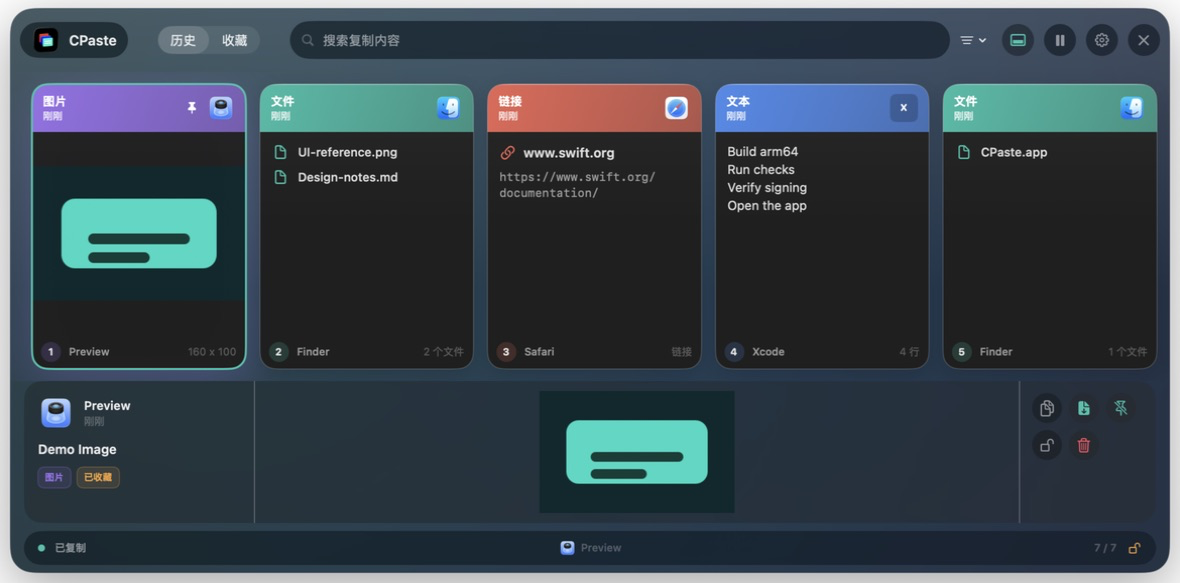
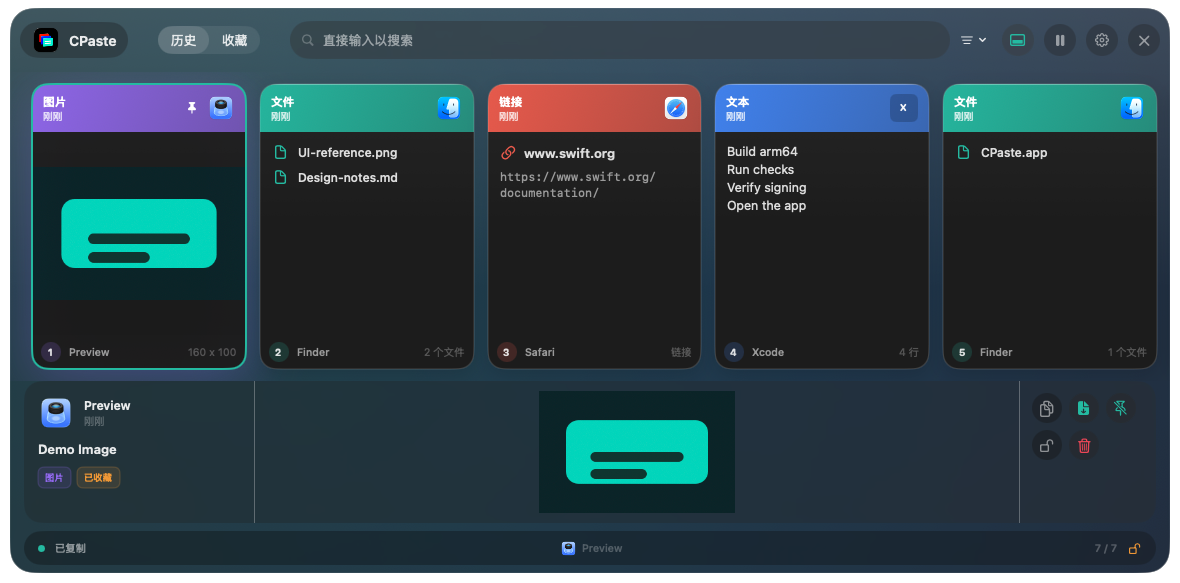
Reset reopened panels to History and remove duplicate window shadow

diff --git a/Sources/CPaste/SnapshotRenderer.swift b/Sources/CPaste/SnapshotRenderer.swift
@@ -7,6 +7,10 @@ import SwiftUI
 enum SnapshotRenderer {
     private static var previewWindow: NSWindow?
 
+    private static var themeStyle: AppThemeStyle {
+        ProcessInfo.processInfo.environment["CPASTE_SNAPSHOT_THEME"] == "standard" ? .standard : .liquidGlass
+    }
+
     nonisolated static func snapshotDirectoryArgument() -> URL? {
         let arguments = ProcessInfo.processInfo.arguments
         guard let index = arguments.firstIndex(of: "--snapshot-dir"),
@@ -58,7 +62,7 @@ enum SnapshotRenderer {
                 inspectorPresented: false
             )
         case "04-empty-timeline":
-            let state = AppState(themeStyle: .liquidGlass)
+            let state = AppState(themeStyle: themeStyle)
             state.statusMessage = CPasteL10n.text("就绪", "Ready")
             showPanelPreview(
                 size: NSSize(width: 680, height: 420),
@@ -130,7 +134,7 @@ enum SnapshotRenderer {
             to: directory
         )
 
-        let emptyState = AppState(themeStyle: .liquidGlass)
+        let emptyState = AppState(themeStyle: themeStyle)
         emptyState.statusMessage = CPasteL10n.text("就绪", "Ready")
         try await renderPanel(
             name: "04-empty-timeline.png",
@@ -241,7 +245,8 @@ enum SnapshotRenderer {
             togglePinned: { item in store.togglePinned(item.id) },
             delete: { item in store.delete(item.id) },
             clearUnpinned: { store.clearUnpinned() },
-            close: {},
+            // Keep the fixture visible while exercising the next-open lifecycle.
+            close: { appState.panelPresentationID = UUID() },
             openAccessibility: {},
             hasAccessibilityPermission: { false },
             toggleCapture: {
@@ -325,10 +330,13 @@ enum SnapshotRenderer {
 
         let scale = window.backingScaleFactor
         let configuration = SCScreenshotConfiguration()
-        configuration.width = Int(size.width * scale)
-        configuration.height = Int(size.height * scale)
+        let includeShadows = ProcessInfo.processInfo.environment["CPASTE_SNAPSHOT_SHADOWS"] == "1"
+        if !includeShadows {
+            configuration.width = Int(size.width * scale)
+            configuration.height = Int(size.height * scale)
+        }
         configuration.showsCursor = false
-        configuration.ignoreShadows = true
+        configuration.ignoreShadows = !includeShadows
         configuration.displayIntent = .local
         configuration.dynamicRange = .sdr
 
@@ -367,11 +375,19 @@ enum SnapshotRenderer {
         window.contentView = hostingView
         window.setFrame(NSRect(origin: .zero, size: size), display: true)
         window.center()
+        if let rawScale = ProcessInfo.processInfo.environment["CPASTE_SNAPSHOT_SCALE"],
+           let requestedScale = Double(rawScale),
+           let screen = NSScreen.screens.first(where: { $0.backingScaleFactor == requestedScale }) {
+            window.setFrameOrigin(NSPoint(
+                x: screen.visibleFrame.midX - size.width / 2,
+                y: screen.visibleFrame.midY - size.height / 2
+            ))
+        }
         return (window, hostingView)
     }
 
     private static func makeReadyState() -> AppState {
-        let state = AppState(themeStyle: .liquidGlass)
+        let state = AppState(themeStyle: themeStyle)
         state.statusMessage = CPasteL10n.text("已复制", "Copied")
         return state
     }

diff --git a/Sources/CPaste/HistoryPanelView.swift b/Sources/CPaste/HistoryPanelView.swift
@@ -92,7 +92,8 @@ struct HistoryPanelView: View {
                     RoundedRectangle(cornerRadius: 24, style: .continuous)
                         .stroke(Color.white.opacity(0.18), lineWidth: 0.8)
                 )
-                .shadow(color: Color.black.opacity(0.36), radius: 28, x: 0, y: 14)
+                // NSPanel supplies the outer shadow. A second SwiftUI shadow
+                // expands its alpha silhouette into a jagged WindowServer outline.
                 .padding(.horizontal, 10)
                 .padding(.top, 8)
                 .padding(.bottom, 10)
@@ -892,10 +893,11 @@ struct HistoryPanelView: View {
     private func prepareForPresentation() {
         presentationState.resetTransientUI()
         searchText = ""
+        scope = .history
         let items = store.filteredItems(
             search: "",
             kind: selectedKind,
-            pinnedOnly: scope == .pinned
+            pinnedOnly: false
         )
         setSelection(items.first?.id)
         isSearchFocused = true

diff --git a/README.md b/README.md
@@ -81,6 +81,8 @@ Open an isolated 8 MB text fixture to check search focus and long-text preview r
 
 Liquid Glass screenshots require macOS 26 or later. Screen Recording permission must be available to the process that runs the snapshot command because native glass is captured from an onscreen WindowServer composition.
 
+For corner and shadow checks, set `CPASTE_SNAPSHOT_SHADOWS=1` to include the native window shadow at its original capture size. `CPASTE_SNAPSHOT_SCALE=1` or `2` places the snapshot window on a connected display with that backing scale (otherwise it uses the default display). Use `CPASTE_SNAPSHOT_THEME=standard` to compare the standard theme. In an interactive preview, closing the panel simulates a new presentation while keeping the fixture window visible, so reopening state can be checked without the global hotkey.
+
 For local UI smoke checks without touching your real history:
 
 ```sh

diff --git a/docs/CPaste-User-Guide.md b/docs/CPaste-User-Guide.md
@@ -196,7 +196,7 @@ Close CPaste by:
 - Clicking the close button in the upper-right corner.
 - Switching to another app.
 
-Each time the panel opens, search is cleared, the timeline returns to the leading edge, and the search field receives focus so you can type immediately. The History/Pinned scope and content-type filter remain selected.
+Each time the panel opens, it returns to History, search is cleared, the timeline returns to the leading edge, and the search field receives focus so you can type immediately. The content-type filter remains selected.
 
 ## 7. Search, Scope, and Filtering
 

diff --git a/docs/CPaste-使用说明书.md b/docs/CPaste-使用说明书.md
@@ -196,7 +196,7 @@ mkdir -p docs/screenshots/timeline-refactor
 - 点击右上角关闭按钮。
 - 点击其他应用，浮动面板会自动收起。
 
-每次重新打开面板时搜索词会清空、时间轴回到最左侧，并自动聚焦搜索框，直接输入即可搜索；历史/收藏和类型筛选会保持当前选择。
+每次重新打开面板时固定回到“历史”，搜索词会清空、时间轴回到最左侧，并自动聚焦搜索框，直接输入即可搜索；类型筛选会保持当前选择。
 
 ## 7. 搜索、范围与筛选
 
